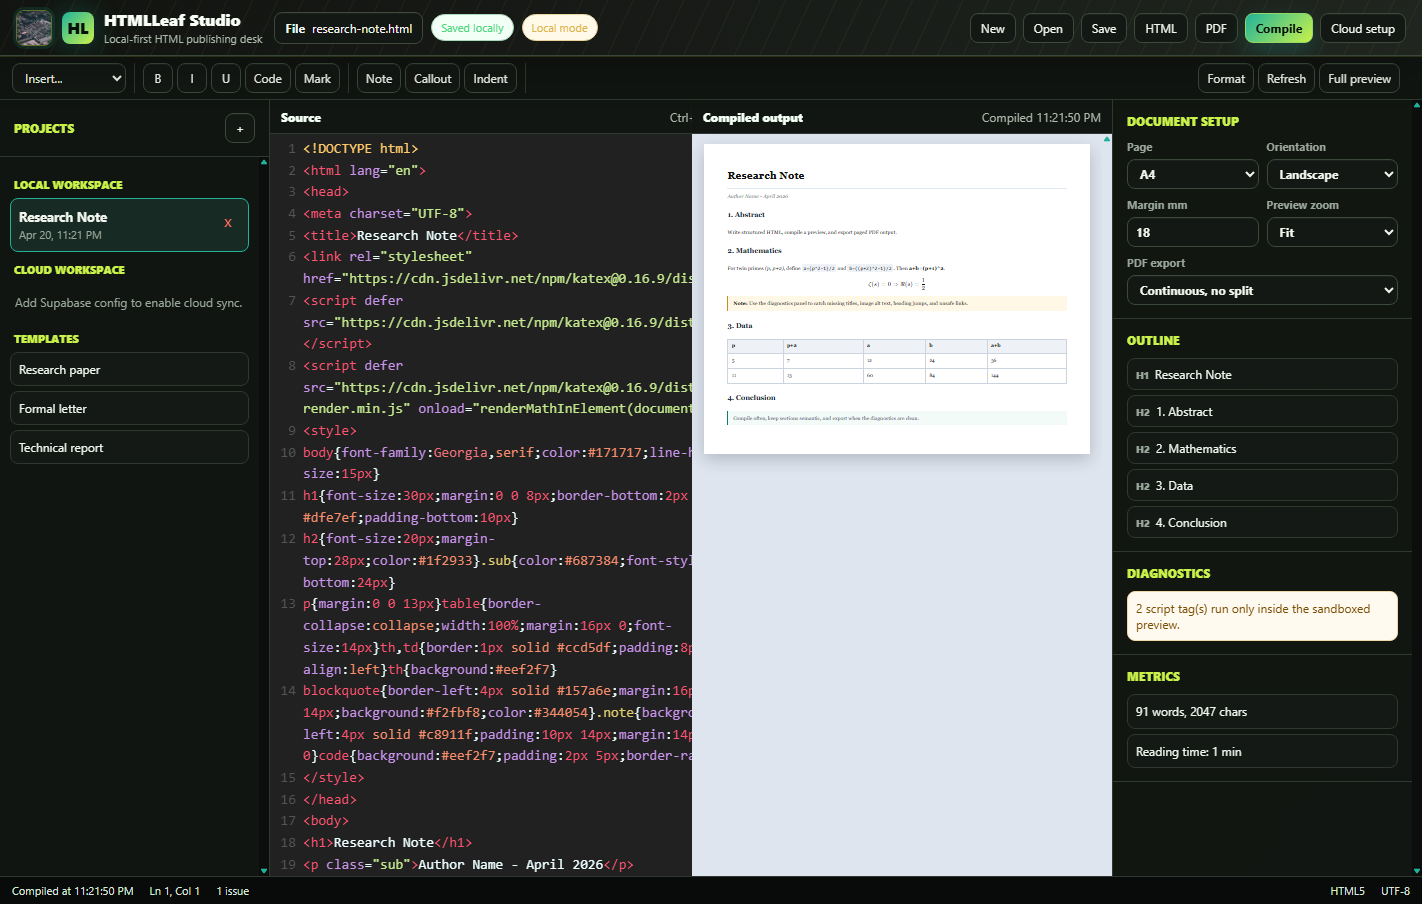
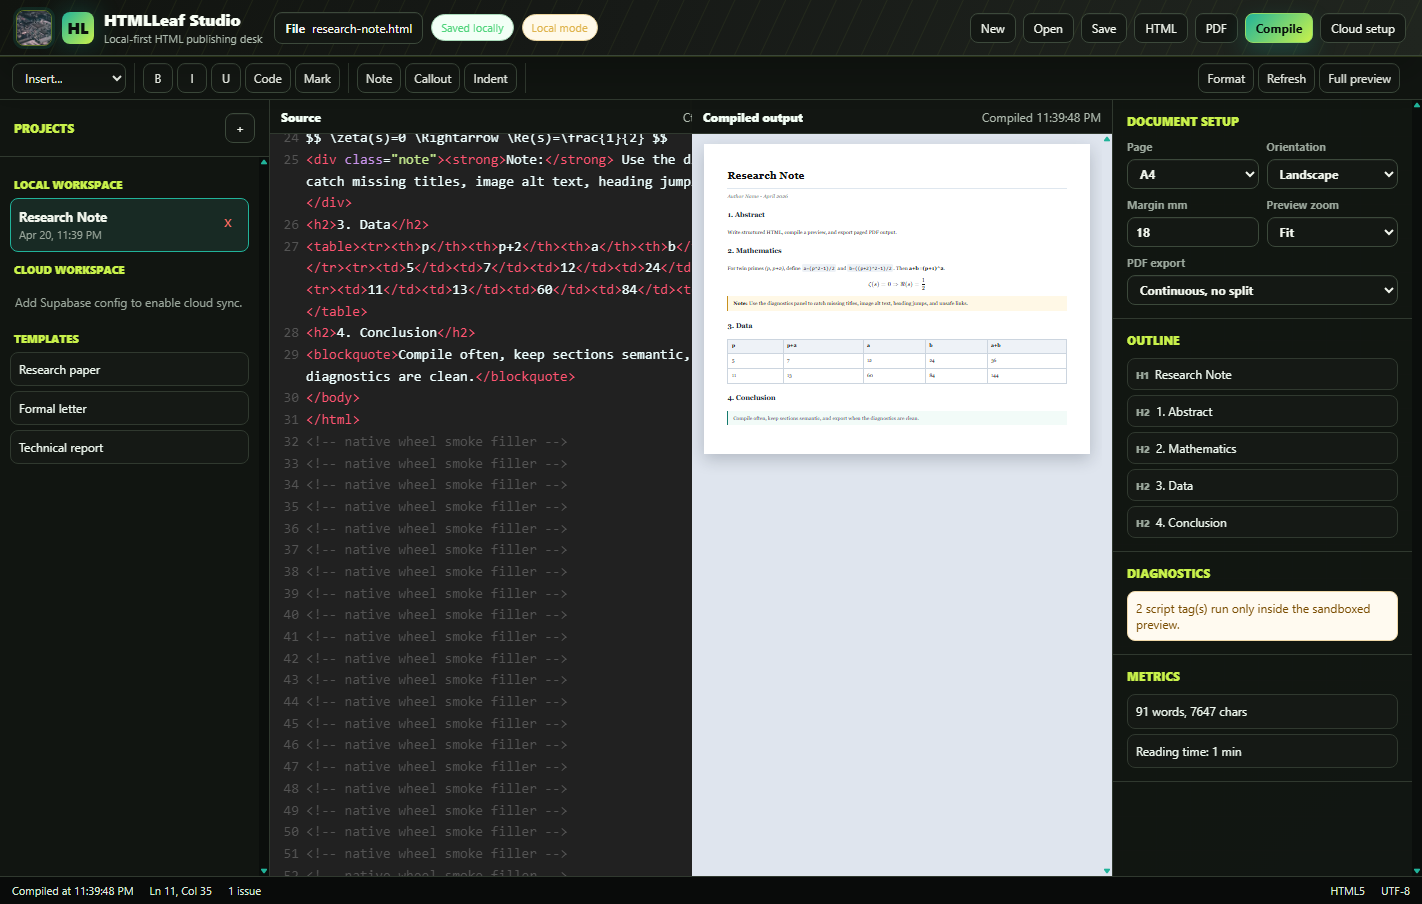
Fix editor native scrolling

Changed region(s): [[0.1857, 0.1239, 0.4951, 0.9602], [0.1238, 0.9602, 0.1857, 0.9912], [0.0619, 0.9602, 0.0928, 0.9912]]

diff --git a/index.html b/index.html
@@ -74,6 +74,9 @@ body::before{content:"";position:fixed;inset:0;pointer-events:none;background:li
 ::-webkit-scrollbar-thumb:hover{background:linear-gradient(180deg,#52dfc8,#dbff6c)}
 .project-scroll,.inspector,.CodeMirror-scroll,.preview-wrap{scrollbar-gutter:stable}
 .project-scroll,.inspector{overflow-y:scroll;overflow-x:hidden}
+.workspace,.editor-panel,.preview-panel,.editor-wrap,.preview-wrap,.CodeMirror,.CodeMirror-scroll{min-height:0!important}
+.CodeMirror{height:100%!important}
+.CodeMirror-scroll{height:100%!important;overflow:scroll!important}
 .CodeMirror-vscrollbar{width:14px!important}
 .CodeMirror-hscrollbar{height:14px!important}
 </style>
@@ -164,7 +167,7 @@ function refreshDocumentIntelligence(){const s=getEditorValue();updateStats(s);r
 function renderOutline(s){const doc=parseHTML(s),heads=Array.from(doc.querySelectorAll("h1,h2,h3,h4,h5,h6"));if(!heads.length){$("outline-list").innerHTML='<div class="empty-state">No headings yet.</div>';return}$("outline-list").innerHTML=heads.map((h,i)=>`<button class="outline-item" data-heading="${i}"><small>${h.tagName}</small>${escapeHTML(h.textContent.trim()||"Untitled heading")}</button>`).join("");$("outline-list").querySelectorAll("[data-heading]").forEach(b=>b.addEventListener("click",()=>{const h=heads[Number(b.getAttribute("data-heading"))],txt=h.textContent.trim(),line=getEditorValue().split(/\r?\n/).findIndex(r=>r.includes(txt));if(line>=0&&editor&&editor.setCursor){editor.setCursor({line,ch:0});focusEditor()}}))}
 function collectDiagnostics(s){const doc=parseHTML(s),d=[],title=doc.querySelector("title");if(!title||!title.textContent.trim())d.push({type:"warn",message:"Document title is missing."});const h1=doc.querySelectorAll("h1");if(!h1.length)d.push({type:"warn",message:"Add one h1 so the document has a clear title."});if(h1.length>1)d.push({type:"warn",message:"Multiple h1 headings found. Use one main title."});const imgs=Array.from(doc.images).filter(img=>!img.getAttribute("alt"));if(imgs.length)d.push({type:"warn",message:imgs.length+" image(s) need alt text."});const ids=Array.from(doc.querySelectorAll("[id]")).map(el=>el.id).filter(Boolean),dups=ids.filter((id,i)=>ids.indexOf(id)!==i);if(dups.length)d.push({type:"danger",message:"Duplicate id values: "+Array.from(new Set(dups)).join(", ")});const unsafe=Array.from(doc.querySelectorAll("[href],[src]")).filter(el=>/^\s*javascript:/i.test(el.getAttribute("href")||el.getAttribute("src")||""));if(unsafe.length)d.push({type:"danger",message:"Unsafe javascript: link or source found."});const scripts=doc.querySelectorAll("script").length;if(scripts)d.push({type:"warn",message:scripts+" script tag(s) run only inside the sandboxed preview."});let last=0;Array.from(doc.querySelectorAll("h1,h2,h3,h4,h5,h6")).forEach(h=>{const lvl=Number(h.tagName.slice(1));if(last&&lvl>last+1)d.push({type:"warn",message:"Heading level jumps from h"+last+" to h"+lvl+"."});last=lvl});if(!d.length)d.push({type:"ok",message:"No structural issues detected."});return d}function renderDiagnostics(s){const d=collectDiagnostics(s);$("diag-list").innerHTML=d.map(x=>`<div class="diag-item ${x.type}">${escapeHTML(x.message)}</div>`).join("");const c=d.filter(x=>x.type!=="ok").length;$("diag-summary").textContent=c+(c===1?" issue":" issues")}
 function pageMetrics(){const b=PAGE_SIZES[settings.pageSize]||PAGE_SIZES.a4,l=settings.orientation==="landscape";return{label:b.label,w:l?b.h:b.w,h:l?b.w:b.h,pdf:b.pdf,orientation:l?"landscape":"portrait",margin:Number(settings.margin)||18}}function pageCss(){const p=pageMetrics(),z=settings.zoom==="fit"?"":"zoom:"+(Number(settings.zoom)/100)+";";return`html{background:#dfe5ee;min-height:100%;overflow-y:scroll;scrollbar-width:thin;scrollbar-color:#21b39a #dfe5ee}html::-webkit-scrollbar{width:14px;height:14px}html::-webkit-scrollbar-track{background:#dfe5ee;border-left:1px solid #b9c3cf}html::-webkit-scrollbar-thumb{background:linear-gradient(180deg,#21b39a,#c9f24b);border:3px solid #dfe5ee;border-radius:8px}body{width:${p.w}mm!important;min-height:${p.h}mm!important;margin:28px auto!important;padding:${p.margin}mm!important;background:#fff!important;color:#111;box-sizing:border-box!important;box-shadow:0 18px 45px rgba(24,32,45,.22);${z}}img,svg,canvas,video{max-width:100%;height:auto}table{max-width:100%}@page{size:${p.w}mm ${p.h}mm;margin:${p.margin}mm}@media print{html{background:#fff}body{box-shadow:none;margin:0!important}}`}
-function buildPreviewDocument(s){const doc=parseHTML(s),head=doc.head?doc.head.innerHTML:"",body=doc.body?doc.body.innerHTML:s,zoom=settings.zoom||"fit";return`<!DOCTYPE html><html lang="en"><head><meta charset="UTF-8"><base target="_blank">${head}<style id="htmlleaf-page-style">${pageCss()}</style></head><body>${body}<script>function htmlleafFit(){try{if("${zoom}"!=="fit")return;document.body.style.zoom="";var w=document.body.getBoundingClientRect().width;var scale=Math.min(1,Math.max(.34,(window.innerWidth-34)/Math.max(1,w)));document.body.style.zoom=scale}catch(e){}}function htmlleafWheel(e){try{var root=document.scrollingElement||document.documentElement;if(!root||root.scrollHeight<=root.clientHeight+2)return;var before=root.scrollTop,left=root.scrollLeft;window.scrollBy(e.deltaX||0,e.deltaY||0);root.scrollTop+=e.deltaY;root.scrollLeft+=e.deltaX||0;if(root.scrollTop!==before||root.scrollLeft!==left)e.preventDefault()}catch(err){}}window.addEventListener("load",function(){try{if(window.renderMathInElement){renderMathInElement(document.body,{delimiters:[{left:"$$",right:"$$",display:true},{left:"\\\\(",right:"\\\\)",display:false},{left:"\\\\[",right:"\\\\]",display:true}],throwOnError:false})}}catch(err){}htmlleafFit();setTimeout(htmlleafFit,250)});window.addEventListener("resize",htmlleafFit);document.addEventListener("wheel",htmlleafWheel,{passive:false,capture:true});<\/script></body></html>`}
+function buildPreviewDocument(s){const doc=parseHTML(s),head=doc.head?doc.head.innerHTML:"",body=doc.body?doc.body.innerHTML:s,zoom=settings.zoom||"fit";return`<!DOCTYPE html><html lang="en"><head><meta charset="UTF-8"><base target="_blank">${head}<style id="htmlleaf-page-style">${pageCss()}</style></head><body>${body}<script>function htmlleafFit(){try{if("${zoom}"!=="fit")return;document.body.style.zoom="";var w=document.body.getBoundingClientRect().width;var scale=Math.min(1,Math.max(.34,(window.innerWidth-34)/Math.max(1,w)));document.body.style.zoom=scale}catch(e){}}window.addEventListener("load",function(){try{if(window.renderMathInElement){renderMathInElement(document.body,{delimiters:[{left:"$$",right:"$$",display:true},{left:"\\\\(",right:"\\\\)",display:false},{left:"\\\\[",right:"\\\\]",display:true}],throwOnError:false})}}catch(err){}htmlleafFit();setTimeout(htmlleafFit,250)});window.addEventListener("resize",htmlleafFit);<\/script></body></html>`}
 function compile(){const s=getEditorValue();$("cov").classList.add("show");$("cov-lbl").textContent="Compiling...";$("cstatus").textContent="Compiling...";setStatus("Compiling preview...");compiled=true;const f=$("pvdoc");let done=false;const finish=()=>{if(done)return;done=true;$("cov").classList.remove("show");const t=new Date().toLocaleTimeString();$("cstatus").textContent="Compiled "+t;setStatus("Compiled at "+t)};f.onload=finish;try{f.srcdoc=buildPreviewDocument(s);setTimeout(finish,1200)}catch(e){$("cov").classList.remove("show");$("cstatus").textContent="Compile failed";setStatus("Compile error: "+e.message)}}
 function sanitizeDocumentForExport(s){const doc=parseHTML(s);doc.querySelectorAll("script,iframe,object,embed,form,input,button,textarea,select").forEach(el=>el.remove());doc.querySelectorAll("*").forEach(el=>Array.from(el.attributes).forEach(a=>{const n=a.name.toLowerCase(),v=a.value||"";if(n.startsWith("on")||/^\s*javascript:/i.test(v))el.removeAttribute(a.name)}));return{styles:Array.from(doc.querySelectorAll('style,link[rel="stylesheet"]')).map(el=>el.outerHTML).join("\n"),body:doc.body?doc.body.innerHTML:s}}function preparePdfSurface(s){const p=pageMetrics(),safe=sanitizeDocumentForExport(s),surf=$("pdf-render");surf.innerHTML="";surf.style.width=p.w+"mm";surf.style.minHeight=p.h+"mm";surf.style.padding=p.margin+"mm";surf.style.boxSizing="border-box";surf.style.background="#fff";surf.innerHTML=safe.styles+'<style id="htmlleaf-export-style">body{margin:0}#pdf-render img,#pdf-render svg,#pdf-render canvas,#pdf-render video{max-width:100%;height:auto}#pdf-render table{max-width:100%}</style>'+safe.body;if(window.renderMathInElement){try{renderMathInElement(surf,{delimiters:[{left:"$$",right:"$$",display:true},{left:"\\(",right:"\\)",display:false},{left:"\\[",right:"\\]",display:true}],throwOnError:false})}catch(e){setStatus("Math render warning: "+e.message)}}return surf}
 function waitForAssets(c){const waits=Array.from(c.querySelectorAll("img")).map(img=>img.complete?Promise.resolve():new Promise(res=>{const t=setTimeout(res,1800);img.onload=img.onerror=()=>{clearTimeout(t);res()}}));if(document.fonts&&document.fonts.ready)waits.push(document.fonts.ready.catch(()=>{}));return Promise.all(waits)}
@@ -178,9 +181,9 @@ async function signInOrUp(){if(!sb)return setCloudMessage("Save Supabase config 
 async function loadCloudProjects(){if(!sb||!currentUser)return;try{const r=await sb.from("projects").select("id,name,updated_at").eq("user_id",currentUser.id).order("updated_at",{ascending:false});if(r.error)throw r.error;cloudProjects=r.data||[];renderProjects()}catch(e){setStatus("Cloud load failed: "+e.message);setCloudMessage("Cloud load failed: "+e.message,true)}}
 async function openCloudProject(id){if(!sb||!currentUser)return;if(dirty)saveNow();$("cov").classList.add("show");$("cov-lbl").textContent="Loading cloud project...";try{const r=await sb.from("projects").select("id,name,content,updated_at").eq("id",id).eq("user_id",currentUser.id).single();if(r.error)throw r.error;const cp=r.data;let local=projects.find(p=>p.cloudId===id);if(!local){local={id:createId(),cloudId:id,name:cp.name||"Cloud Project",fileName:((cp.name||"cloud-project").replace(/[^\w.-]+/g,"-").toLowerCase())+".html",content:cp.content||"",createdAt:nowISO(),updatedAt:cp.updated_at||nowISO()};projects.unshift(local)}else{local.content=cp.content||"";local.updatedAt=cp.updated_at||nowISO()}persistProjects();openLocalProject(local.id);setCloudMessage("Cloud project opened.",false)}catch(e){setCloudMessage("Open failed: "+e.message,true)}finally{$("cov").classList.remove("show")}}
 async function syncActiveToCloud(showFeedback=true){if(!sb||!currentUser)return;const p=activeProject();if(!p)return;try{let r;if(p.cloudId)r=await sb.from("projects").update({name:p.name,content:p.content,updated_at:nowISO()}).eq("id",p.cloudId).eq("user_id",currentUser.id).select().single();else r=await sb.from("projects").insert({name:p.name,content:p.content,user_id:currentUser.id}).select().single();if(r.error)throw r.error;if(r.data&&r.data.id)p.cloudId=r.data.id;persistProjects();await loadCloudProjects();if(showFeedback)setCloudMessage("Project synced to cloud.",false)}catch(e){setStatus("Cloud sync failed: "+e.message);if(showFeedback)setCloudMessage("Cloud sync failed: "+e.message,true)}}async function deleteCloudProject(id){if(!sb||!currentUser||!confirm("Delete this cloud project? Local mirrors will remain."))return;try{const r=await sb.from("projects").delete().eq("id",id).eq("user_id",currentUser.id);if(r.error)throw r.error;projects.forEach(p=>{if(p.cloudId===id)p.cloudId=null});persistProjects();await loadCloudProjects()}catch(e){setCloudMessage("Cloud delete failed: "+e.message,true)}}
-function installWheelRouting(){function codeMirrorScroller(){return editor&&editor.getScrollerElement?editor.getScrollerElement():document.querySelector(".CodeMirror-scroll")}function scrollTarget(scroller,dx,dy){if(!scroller)return false;if(scroller.classList&&scroller.classList.contains("CodeMirror-scroll")&&editor&&editor.getScrollInfo&&editor.scrollTo){const info=editor.getScrollInfo(),nextTop=Math.max(0,Math.min(info.height-info.clientHeight,info.top+dy)),nextLeft=Math.max(0,Math.min(info.width-info.clientWidth,info.left+(dx||0)));editor.scrollTo(nextLeft,nextTop);return nextTop!==info.top||nextLeft!==info.left}if(scroller.scrollHeight<=scroller.clientHeight+2&&scroller.scrollWidth<=scroller.clientWidth+2)return false;const before=scroller.scrollTop,left=scroller.scrollLeft;scroller.scrollTop+=dy;scroller.scrollLeft+=dx||0;return scroller.scrollTop!==before||scroller.scrollLeft!==left}function route(e){if(e.ctrlKey||e.metaKey)return;const hasPoint=Number.isFinite(e.clientX)&&Number.isFinite(e.clientY)&&(e.clientX!==0||e.clientY!==0),probe=(hasPoint?document.elementFromPoint(e.clientX,e.clientY):null)||e.target,tag=(probe&&probe.tagName?probe.tagName:"").toLowerCase(),insideCm=probe.closest&&probe.closest(".CodeMirror");if(!insideCm&&["input","textarea","select","option"].includes(tag))return;let scroller=null;if(insideCm)scroller=codeMirrorScroller();else if(probe.closest){scroller=probe.closest(".project-scroll,.inspector");if(!scroller&&probe.closest(".projects"))scroller=document.querySelector(".project-scroll")}if(scrollTarget(scroller,e.deltaX,e.deltaY))e.preventDefault()}document.addEventListener("wheel",route,{passive:false,capture:true});setTimeout(()=>{const cm=codeMirrorScroller(),wrap=editor&&editor.getWrapperElement?editor.getWrapperElement():document.querySelector(".CodeMirror");[cm,wrap].filter(Boolean).forEach(el=>el.addEventListener("wheel",route,{passive:false,capture:true}))},0)}
+function installEditorWheelBridge(){if(!editor||!editor.getScrollInfo||!editor.scrollTo)return;const bridge=e=>{if(e.ctrlKey||e.metaKey)return;const info=editor.getScrollInfo(),top=Math.max(0,Math.min(info.height-info.clientHeight,info.top+e.deltaY)),left=Math.max(0,Math.min(info.width-info.clientWidth,info.left+(e.deltaX||0)));if(top!==info.top||left!==info.left){editor.scrollTo(left,top);e.preventDefault();e.stopPropagation()}};[editor.getWrapperElement&&editor.getWrapperElement(),editor.getScrollerElement&&editor.getScrollerElement()].filter(Boolean).forEach(el=>el.addEventListener("wheel",bridge,{passive:false,capture:true}))}
 function wireEvents(){$("btn-new").onclick=()=>showNameModal("New project","Create a blank local document.","Create",n=>createProject(n,STARTER));$("btn-new-small").onclick=$("btn-new").onclick;$("btn-save").onclick=saveNow;$("btn-open").onclick=()=>$("fileinput").click();$("btn-dl-html").onclick=downloadHTML;$("btn-dl-pdf").onclick=downloadPDF;$("btn-compile").onclick=compile;$("btn-recompile").onclick=compile;$("btn-cloud").onclick=openCloudModal;$("btn-fs").onclick=()=>{const w=$("pvwrap"),fn=w.requestFullscreen||w.webkitRequestFullscreen;if(fn)fn.call(w)};$("fileinput").addEventListener("change",e=>{const file=e.target.files[0];if(!file)return;const r=new FileReader();r.onload=ev=>{createProject(file.name.replace(/\.html?$/i,"")||"Imported",ev.target.result);const p=activeProject();if(p)p.fileName=file.name;persistProjects()};r.readAsText(file);e.target.value=""});$("ins-tag").onchange=function(){insertSnippet(SNIPS[this.value]);this.value=""};$("tb-b").onclick=()=>wrapSelection("<strong>","</strong>");$("tb-i").onclick=()=>wrapSelection("<em>","</em>");$("tb-u").onclick=()=>wrapSelection("<u>","</u>");$("tb-code").onclick=()=>wrapSelection("<code>","</code>");$("tb-mark").onclick=()=>wrapSelection("<mark>","</mark>");$("tb-note").onclick=()=>insertSnippet('<div class="note"><strong>Note:</strong> Add detail here.</div>\n');$("tb-callout").onclick=()=>insertSnippet('<aside style="border:1px solid #ccd5df;padding:12px;border-radius:6px;background:#f7fbff"><strong>Callout:</strong> Key idea.</aside>\n');$("btn-indent").onclick=()=>editor.execCommand&&editor.execCommand("indentMore");$("btn-format").onclick=formatDocument;["pgsz","pgori","pgmargin","pgzoom","pgexport"].forEach(id=>$(id).addEventListener("change",saveSettings));$("name-ok").onclick=()=>{const n=$("name-input").value.trim();if(!n)return;const cb=modalCallback;closeNameModal();if(cb)cb(n)};$("name-cancel").onclick=closeNameModal;$("name-input").addEventListener("keydown",e=>{if(e.key==="Enter")$("name-ok").click();if(e.key==="Escape")closeNameModal()});$("name-modal").addEventListener("click",e=>{if(e.target===$("name-modal"))closeNameModal()});$("cloud-close").onclick=closeCloudModal;$("cloud-modal").addEventListener("click",e=>{if(e.target===$("cloud-modal"))closeCloudModal()});$("cloud-save").onclick=()=>{cloudConfig={url:$("cloud-url").value.trim(),key:$("cloud-key").value.trim()};saveJSON(CLOUD_KEY,cloudConfig);setCloudMessage("Cloud config saved locally in this browser.",false);initCloud()};$("cloud-clear").onclick=()=>{localStorage.removeItem(CLOUD_KEY);cloudConfig={url:"",key:""};currentUser=null;cloudProjects=[];initCloud();setCloudMessage("Cloud config cleared. Local projects are unchanged.",false)};$("auth-submit").onclick=signInOrUp;$("auth-signout").onclick=async()=>{if(sb)await sb.auth.signOut();currentUser=null;cloudProjects=[];updateCloudUI();setCloudMessage("Signed out.",false)};$("btn-google-auth").onclick=async()=>{if(!sb)return setCloudMessage("Save Supabase config first.",true);const r=await sb.auth.signInWithOAuth({provider:"google",options:{redirectTo:window.location.href}});if(r.error)setCloudMessage(r.error.message,true)};$("tab-signin").onclick=()=>{authMode="signin";$("tab-signin").classList.add("active");$("tab-signup").classList.remove("active");$("auth-submit").textContent="Sign in"};$("tab-signup").onclick=()=>{authMode="signup";$("tab-signup").classList.add("active");$("tab-signin").classList.remove("active");$("auth-submit").textContent="Sign up"};document.addEventListener("keydown",e=>{if(e.key==="Escape"){closeNameModal();closeCloudModal()}})}
-function boot(){initializeEditor();applySettingsToControls();renderTemplates();wireEvents();installWheelRouting();ensureStarterProject();initCloud();refreshDocumentIntelligence();compile();if(!window.CodeMirror)setStatus("Editor fallback active: CodeMirror did not load.")}
+function boot(){initializeEditor();installEditorWheelBridge();applySettingsToControls();renderTemplates();wireEvents();ensureStarterProject();initCloud();refreshDocumentIntelligence();compile();if(!window.CodeMirror)setStatus("Editor fallback active: CodeMirror did not load.")}
 boot();
 </script>
 </body>

diff --git a/smoke-test.js b/smoke-test.js
@@ -106,6 +106,7 @@ async function main() {
   await send("Runtime.enable");
   await send("Log.enable");
   await send("Page.enable");
+  await send("Page.bringToFront");
   await evalExpr("new Promise(resolve => { if (document.readyState === 'complete') resolve(true); else window.addEventListener('load', () => resolve(true), { once: true }); })");
   await sleep(5000);
   await evalExpr("document.getElementById('btn-compile').click(); true");
@@ -126,22 +127,60 @@ async function main() {
     continuousExport: typeof exportContinuousPDF === 'function',
     pagedExport: typeof exportPagedPDF === 'function',
     smartBreaks: typeof smartBreaks === 'function',
-    wheelRouting: typeof installWheelRouting === 'function',
+    editorWheelBridge: typeof installEditorWheelBridge === 'function',
     sandbox: document.getElementById('pvdoc')?.getAttribute('sandbox') || '',
     sameOrigin: (document.getElementById('pvdoc')?.getAttribute('sandbox') || '').includes('allow-same-origin'),
     hasSrcdoc: !!document.getElementById('pvdoc')?.srcdoc,
     fitPreviewScript: (document.getElementById('pvdoc')?.srcdoc || '').includes('htmlleafFit'),
-    previewWheelScript: (document.getElementById('pvdoc')?.srcdoc || '').includes('htmlleafWheel'),
+    nativeEditorOverflow: getComputedStyle(document.querySelector('.CodeMirror-scroll')).overflowY,
     localStorageBytes: (localStorage.getItem('htmlleaf.projects.v3') || '').length
   }))()`);
-  const editorWheelWorked = await evalExpr(`(() => {
-    const host = document.querySelector('.CodeMirror');
-    const scroller = document.querySelector('.CodeMirror-scroll');
-    if (!host || !scroller || scroller.scrollHeight <= scroller.clientHeight + 2) return true;
-    const before = scroller.scrollTop;
-    host.dispatchEvent(new WheelEvent('wheel', { deltaY: 600, bubbles: true, cancelable: true }));
-    return scroller.scrollTop > before;
+  const editorPoint = await evalExpr(`(() => {
+    if (typeof editor !== 'undefined' && editor.setValue) {
+      editor.setValue(editor.getValue() + "\\n" + Array(160).fill("<!-- native wheel smoke filler -->").join("\\n"));
+      editor.refresh && editor.refresh();
+    }
+    const rect = document.querySelector('.CodeMirror').getBoundingClientRect();
+    window.__htmlleafWheelSeen = 0;
+    document.addEventListener('wheel', () => { window.__htmlleafWheelSeen += 1; }, { capture: true });
+    const info = typeof editor !== 'undefined' && editor.getScrollInfo ? editor.getScrollInfo() : null;
+    const before = info ? info.top : document.querySelector('.CodeMirror-scroll').scrollTop;
+    return { x: Math.floor(rect.left + rect.width / 2), y: Math.floor(rect.top + rect.height / 2), before, info };
   })()`);
+  await send("Input.dispatchMouseEvent", {
+    type: "mouseMoved",
+    x: editorPoint.x,
+    y: editorPoint.y
+  });
+  await send("Input.dispatchMouseEvent", {
+    type: "mousePressed",
+    x: editorPoint.x,
+    y: editorPoint.y,
+    button: "left",
+    clickCount: 1
+  });
+  await send("Input.dispatchMouseEvent", {
+    type: "mouseReleased",
+    x: editorPoint.x,
+    y: editorPoint.y,
+    button: "left",
+    clickCount: 1
+  });
+  await sleep(200);
+  await send("Input.dispatchMouseEvent", {
+    type: "mouseWheel",
+    x: editorPoint.x,
+    y: editorPoint.y,
+    deltaY: 900,
+    deltaX: 0
+  });
+  await sleep(700);
+  const editorWheelState = await evalExpr(`(() => {
+    const info = typeof editor !== 'undefined' && editor.getScrollInfo ? editor.getScrollInfo() : null;
+    const after = info ? info.top : document.querySelector('.CodeMirror-scroll').scrollTop;
+    return { after, info, wheelSeen: window.__htmlleafWheelSeen || 0 };
+  })()`);
+  const editorWheelWorked = editorWheelState.after > (Number(editorPoint.before) || 0);
 
   await evalExpr("document.getElementById('pgori').value='landscape'; document.getElementById('pgori').dispatchEvent(new Event('change', { bubbles: true })); true");
   await sleep(1300);
@@ -160,13 +199,13 @@ async function main() {
   if (state.exportMode !== "continuous") failures.push("continuous PDF export is not the default");
   if (!state.continuousExport) failures.push("continuous PDF export function missing");
   if (!state.pagedExport || !state.smartBreaks) failures.push("smart paged PDF export functions missing");
-  if (!state.wheelRouting) failures.push("wheel routing function missing");
-  if (!editorWheelWorked) failures.push("mouse wheel did not scroll the editor");
+  if (!state.editorWheelBridge) failures.push("editor wheel bridge missing");
+  if (state.nativeEditorOverflow !== "scroll" && state.nativeEditorOverflow !== "auto") failures.push("editor is not natively scrollable");
+  if (!editorWheelWorked) failures.push("real Chrome mouse wheel did not scroll the editor");
   if (!state.cstatus.includes("Compiled")) failures.push("compile status did not update");
   if (state.sameOrigin) failures.push("iframe sandbox still allows same-origin");
   if (!state.hasSrcdoc) failures.push("preview srcdoc missing");
   if (!state.fitPreviewScript) failures.push("fit-preview script missing");
-  if (!state.previewWheelScript) failures.push("preview wheel script missing");
   if (state.localStorageBytes < 100) failures.push("local project storage missing");
   if (!pageSettingWorked) failures.push("page orientation/size did not affect preview");
   if (exceptions.length) failures.push("runtime exceptions: " + exceptions.join(" | "));
@@ -182,6 +221,8 @@ async function main() {
     state,
     pageSettingWorked,
     editorWheelWorked,
+    editorPoint,
+    editorWheelState,
     exceptions,
     logs: logs.slice(0, 8),
     screenshotPath

diff --git a/summar.md b/summar.md
@@ -91,3 +91,11 @@ After testing the live editor, the PDF export and preview were refined again:
 - Added mouse-wheel routing so scrolling over nested editor/sidebar surfaces moves the correct panel.
 - Added a wheel handler inside the sandboxed preview document.
 - Updated `smoke-test.js` to verify editor mouse-wheel scrolling works and preview wheel support is injected.
+
+## Scroll Bug Fix
+
+- Fixed the actual root cause of inert editor scrolling: CodeMirror was expanding to the full height of its content instead of staying constrained inside the grid panel.
+- Added explicit `min-height: 0` and fixed-height constraints for the workspace, editor panel, editor wrapper, CodeMirror, and CodeMirror scroll surface.
+- Added a narrow CodeMirror-only wheel bridge that uses CodeMirror's own `scrollTo` API.
+- Replaced the old synthetic wheel smoke check with real Chrome DevTools mouse-wheel input.
+- Latest real-wheel test moved the editor from scroll top `0` to `900`, confirming the mouse wheel scrolls the source editor.
